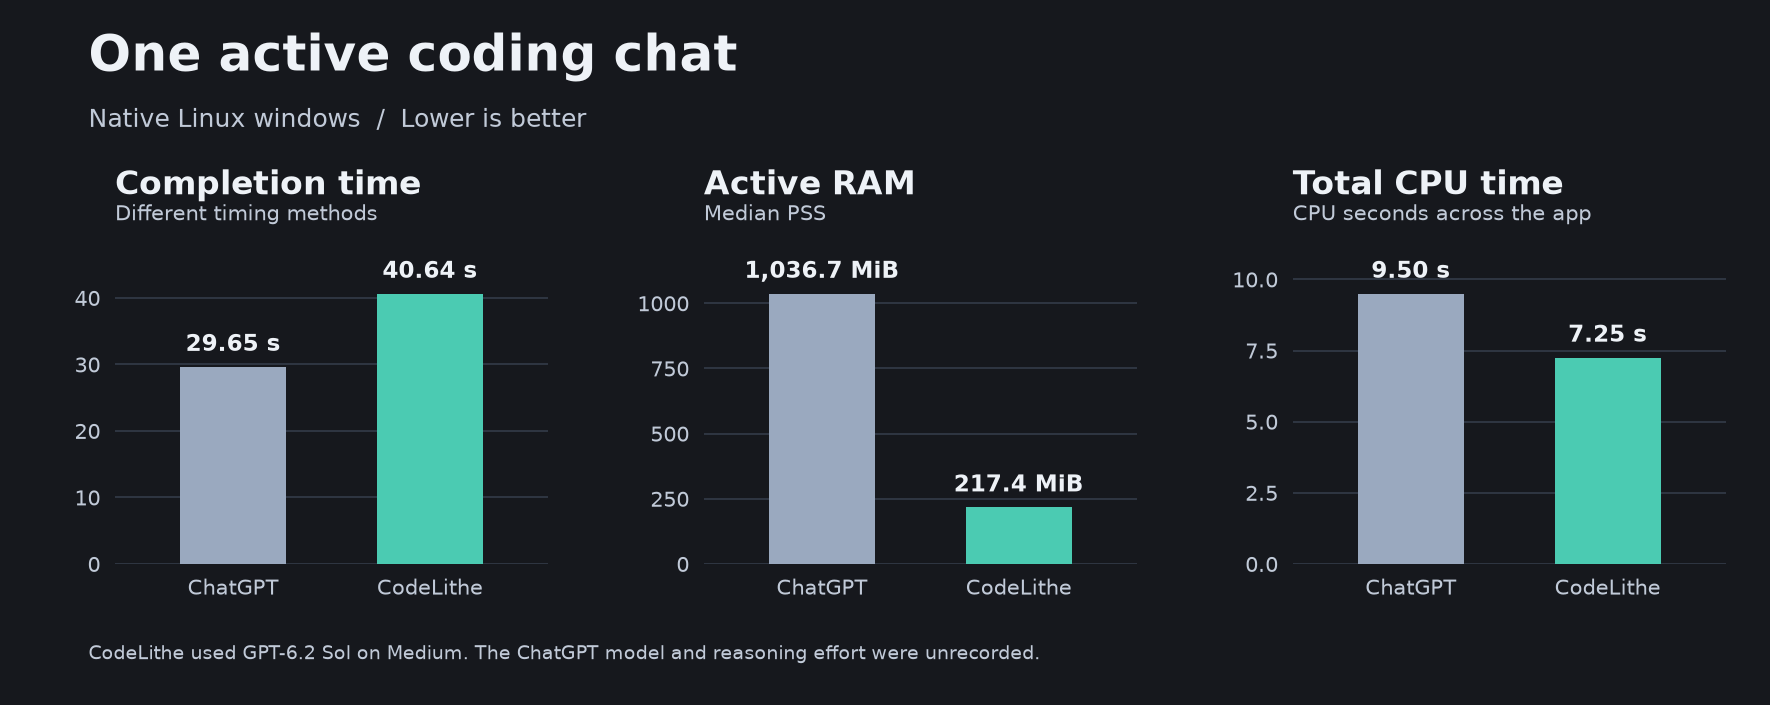
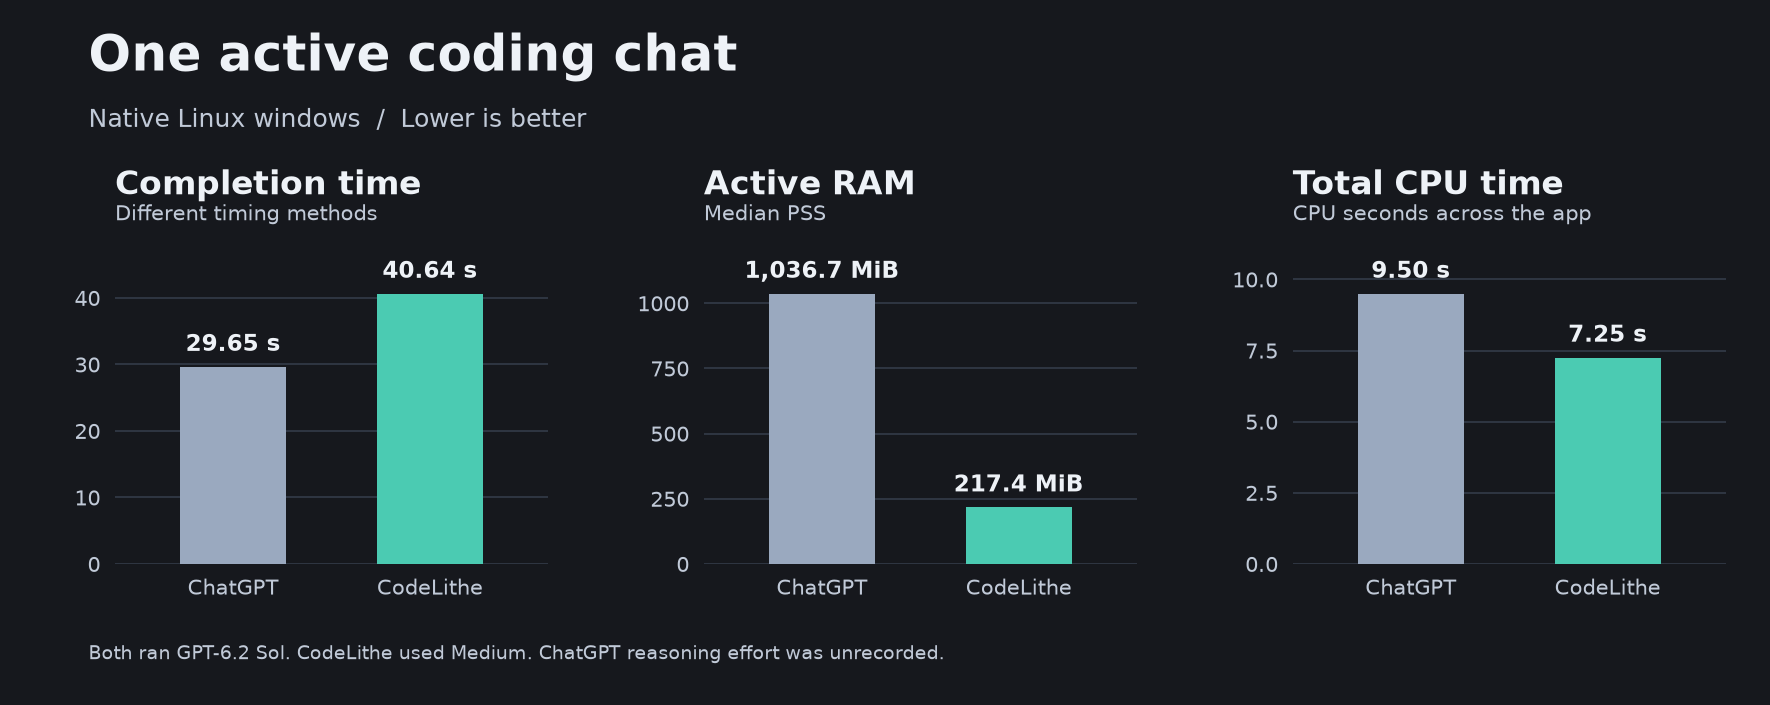
Record the ChatGPT benchmark model

Changed region(s): [[0.0621, 0.905, 0.5904, 0.9362]]

diff --git a/benchmarks/desktop/render_comparison.py b/benchmarks/desktop/render_comparison.py
@@ -91,7 +91,7 @@ def main():
             ("Total CPU time", "CPU seconds across the app",
              tuple(run["cpu_seconds"] for run in coding), " s", ".2f"),
         ],
-        "CodeLithe used GPT-6.2 Sol on Medium. The ChatGPT model and reasoning effort were unrecorded.",
+        "Both ran GPT-6.2 Sol. CodeLithe used Medium. ChatGPT reasoning effort was unrecorded.",
         "coding-comparison.png",
     )
 

diff --git a/benchmarks/desktop/README.md b/benchmarks/desktop/README.md
@@ -36,7 +36,7 @@ Raw measurements are available for [ChatGPT](results/chatgpt-26.1111.21308.json)
 | Disk write, observed lower bound | 163,840 B | 22,511,616 B |
 | Fixture tests | Passed | Passed |
 
-Both apps ran the same coding task against a live provider. ChatGPT used manual terminal markers, and its model and reasoning effort were unrecorded. CodeLithe used automatic task boundaries and sent every model request with GPT-6.2 Sol on Medium. See the [CodeLithe coding run](results/codelithe-ea8c53c-gpt-6.2-sol-medium.json) for the raw measurements.
+Both apps ran the same coding task with GPT-6.2 Sol against a live provider. ChatGPT used manual terminal markers, and its reasoning effort was unrecorded. CodeLithe used automatic task boundaries and sent every model request with Medium reasoning effort. See the [CodeLithe coding run](results/codelithe-ea8c53c-gpt-6.2-sol-medium.json) for the raw measurements.
 
 ## Prerequisites
 

diff --git a/README.md b/README.md
@@ -48,7 +48,7 @@ CodeLithe and ChatGPT Desktop in local Codex mode were measured on the same Zori
 
 </details>
 
-ChatGPT used manual timing markers. CodeLithe used automatic markers and a scripted provider for startup and idle. Both coding runs used live providers. CodeLithe used **GPT‑6.2 Sol on Medium**, and the ChatGPT model and effort were unrecorded. These are measurements from one machine and one coding run per app.
+ChatGPT used manual timing markers. CodeLithe used automatic markers and a scripted provider for startup and idle. Both coding runs used **GPT‑6.2 Sol** with a live provider. CodeLithe used Medium reasoning effort. The ChatGPT reasoning effort was unrecorded. These are measurements from one machine and one coding run per app.
 
 [Full results, raw data, and reproduction steps](benchmarks/desktop/README.md)
 
